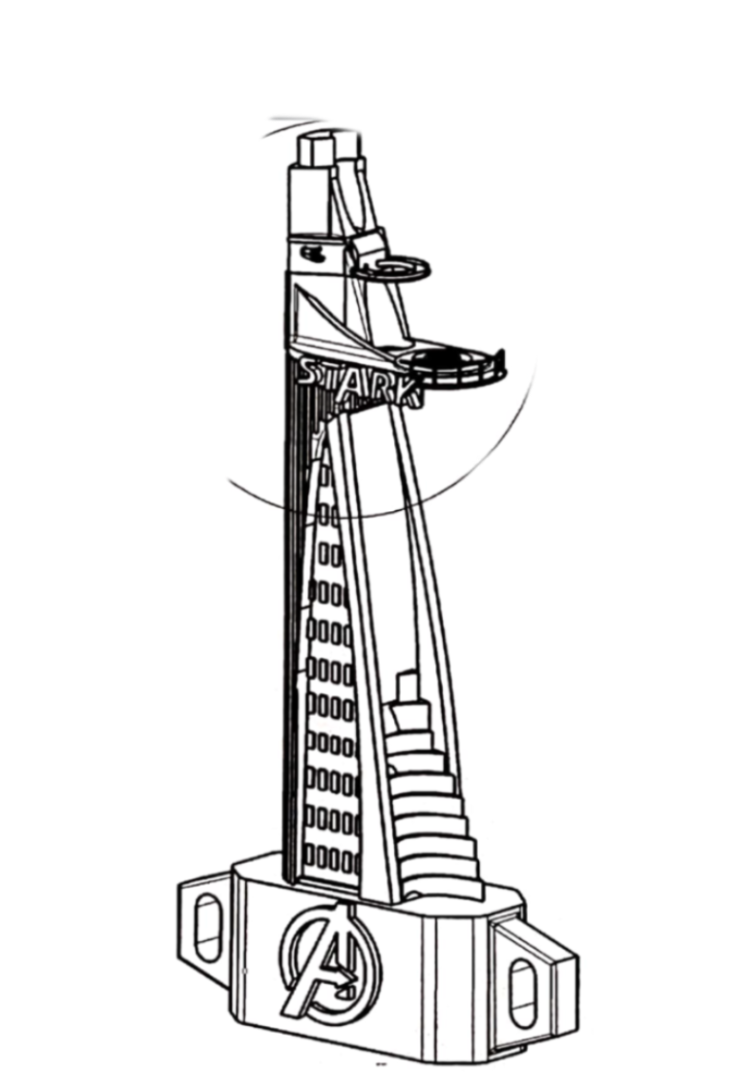
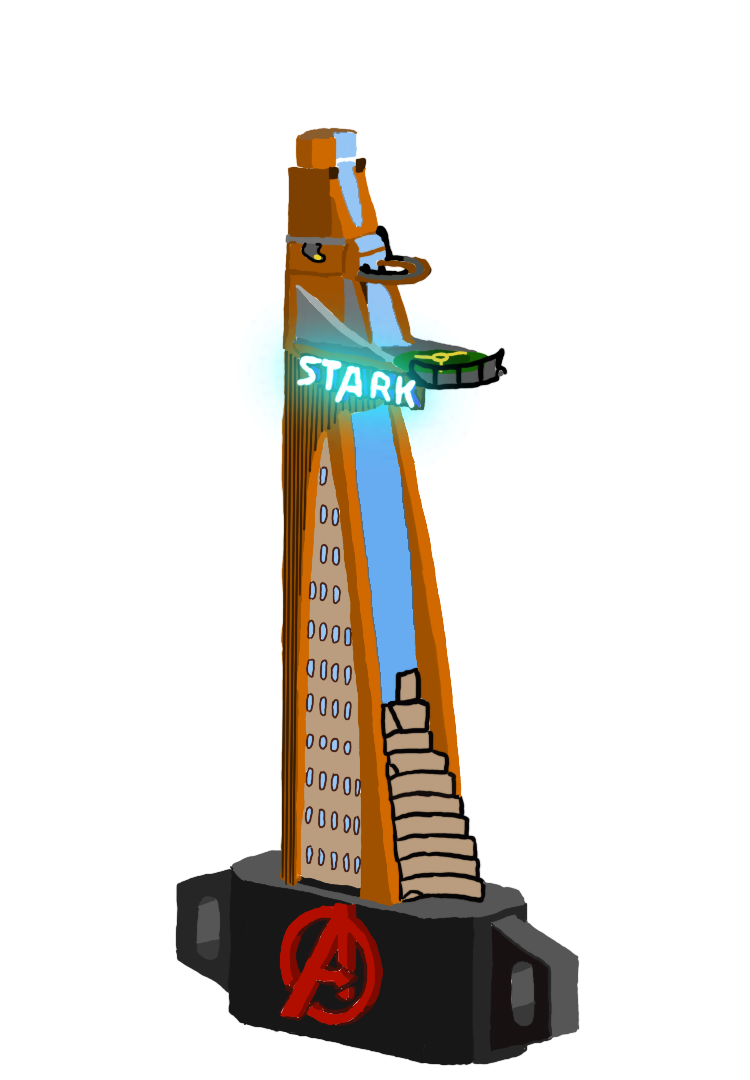
stark

diff --git a/index.html b/index.html
@@ -392,11 +392,11 @@
                     <button class="seeMore">SEE MORE</button>
                 </div>
                 <div class="detail">
-                    <div class="title">Neural Networks from Scratch</div>
+                    <div class="title">Stark Tower</div>
                     <div class="des">
-                        Designed and built a neural network to implement deep learning from scratch (just with NumPy and Python) able to categorize data sets such as MNIST with close to 90% accuracy and above. Step by step hand calculations included!
+                        A detailed CAD model of Stark Tower created and designed on CATIA V5. 3D printed with PLA afterwards.
                     </div>
-                    <div class="specifications">
+<!--                     <div class="specifications">
                         <div>
                             <p>Used Time</p>
                             <p>6 hours</p>
@@ -417,10 +417,10 @@
                             <p>Controlled</p>
                             <p>Touch</p>
                         </div>
-                    </div>
+                    </div> -->
                     <div class="checkout">
                         <button>ADD TO CART</button>
-                        <button>CHECKOUT</button>
+                        <button>View Blog Post</button>
                     </div>
                 </div>
             </div>
